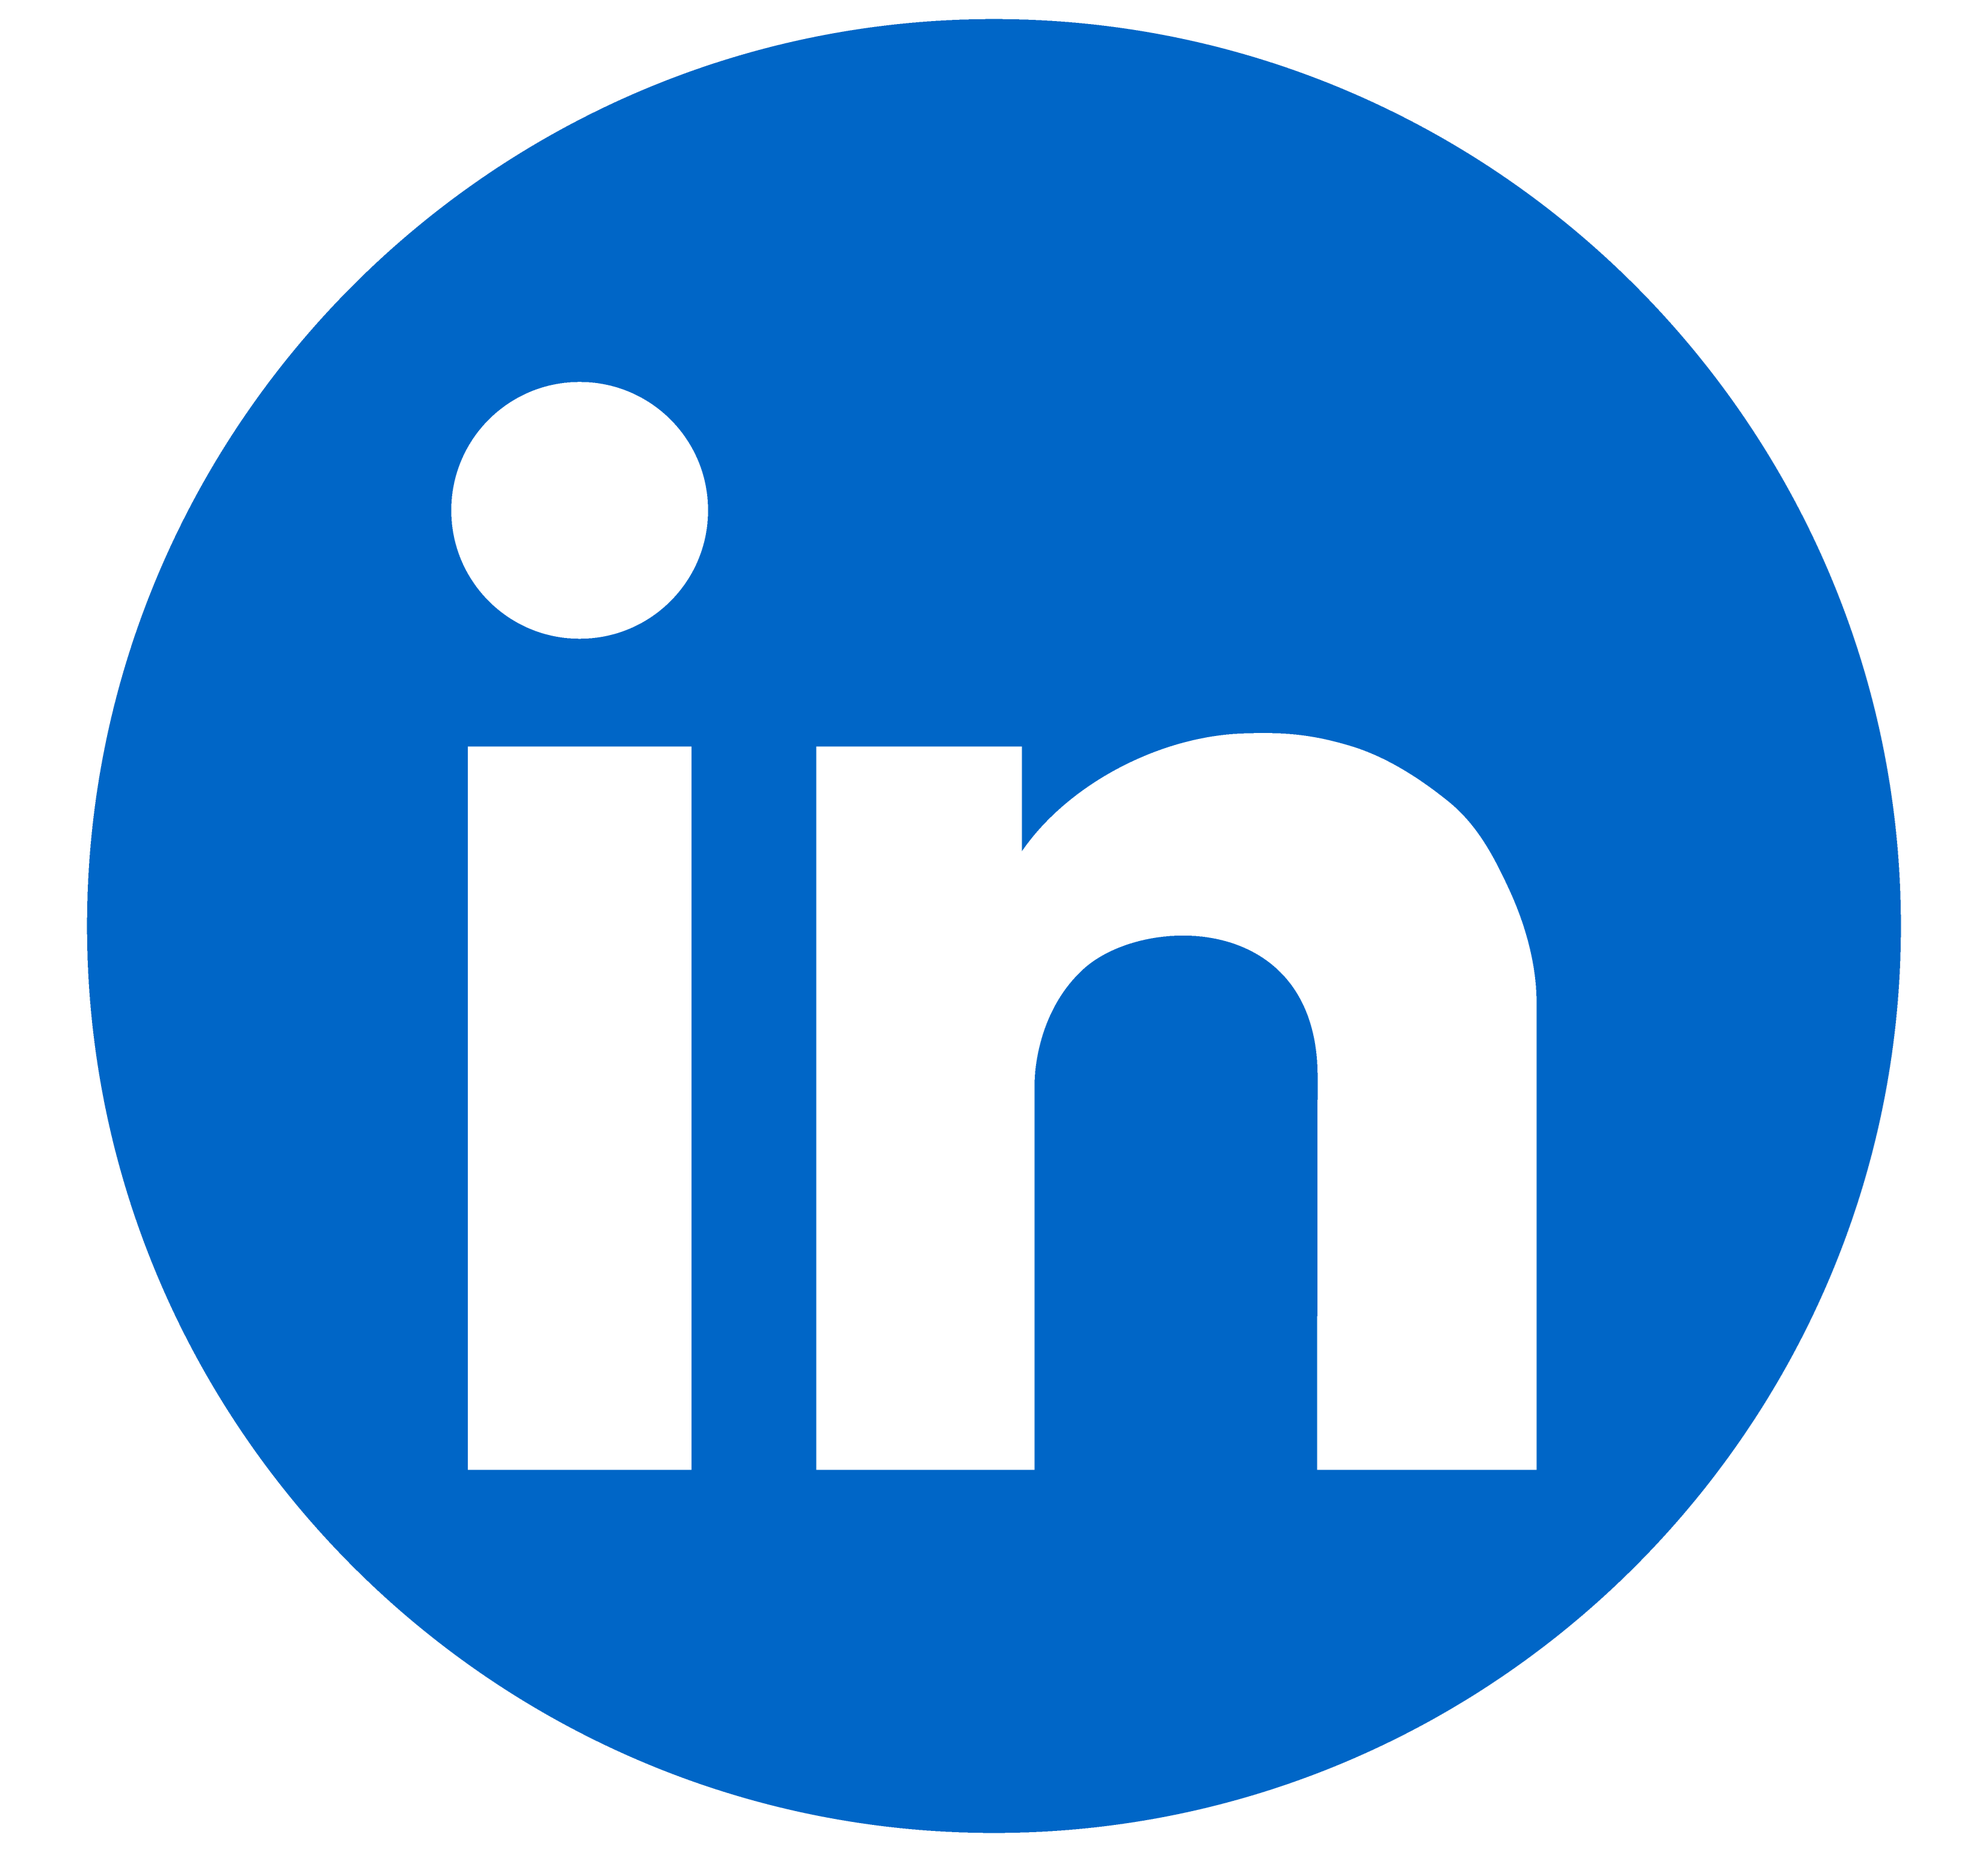
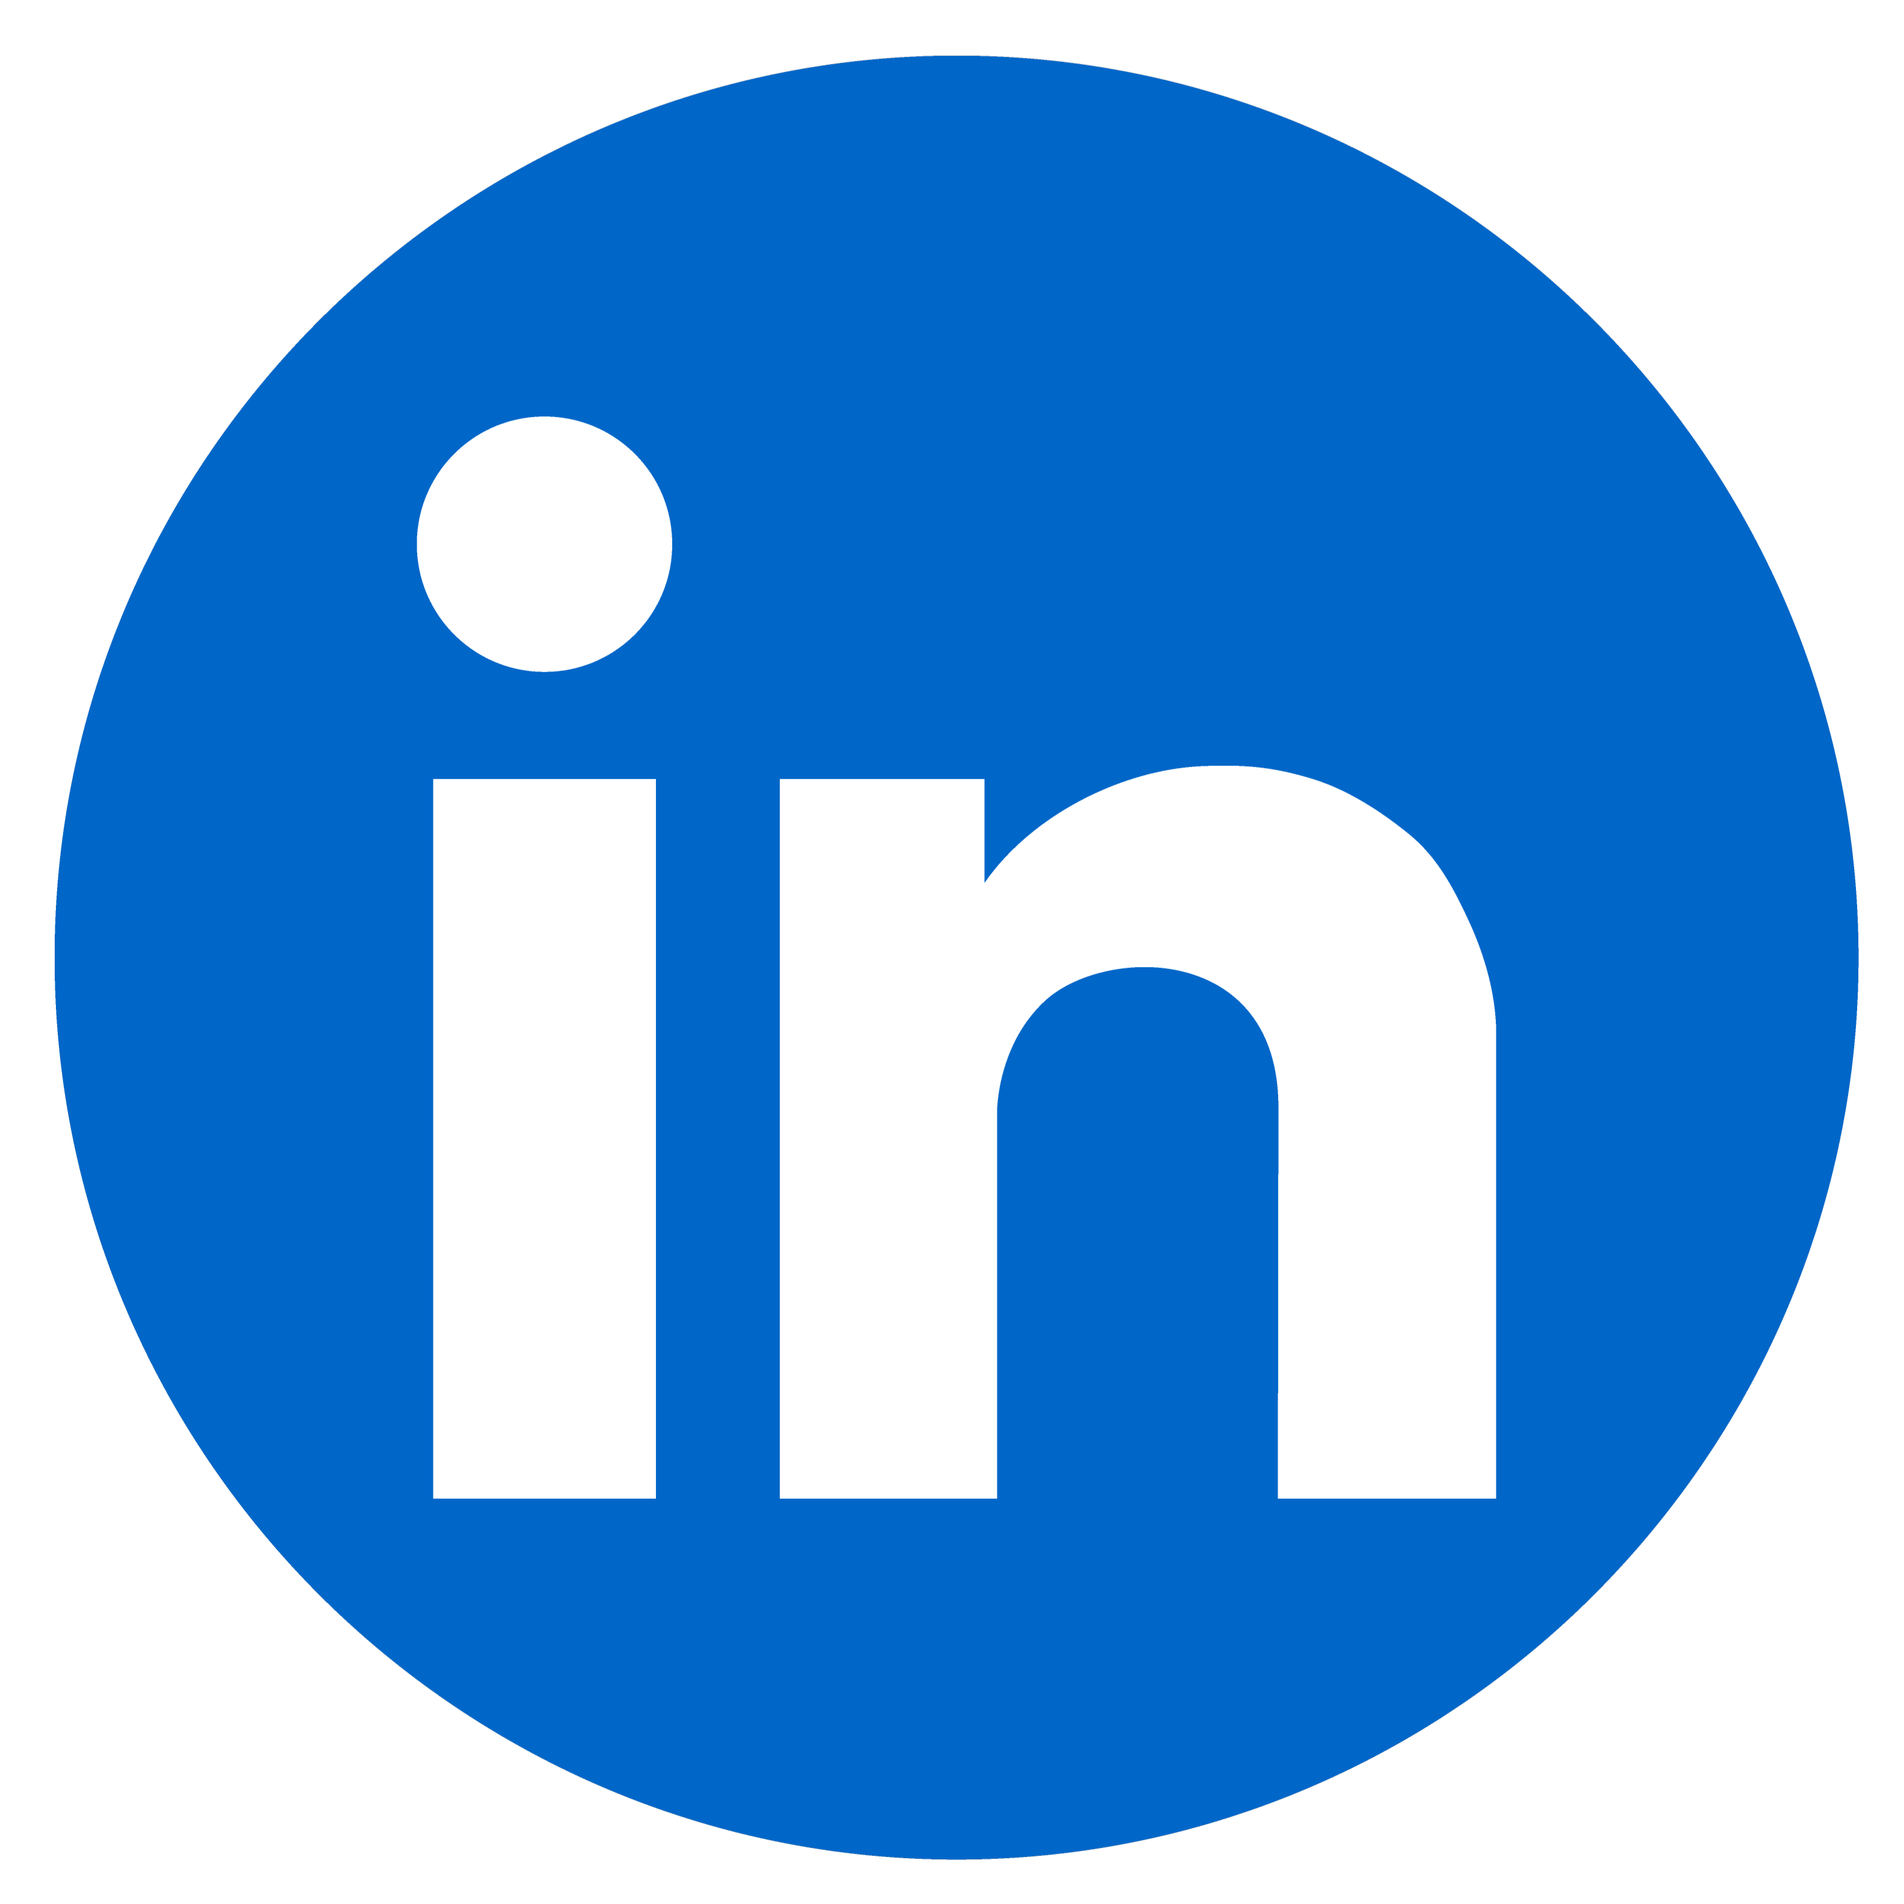
[UPD] Updated all components to use global styling and hover effects

diff --git a/src/data/links.ts b/src/data/links.ts
@@ -12,6 +12,7 @@ export interface Card {
 }
 
 export interface Section {
+    icon: string
     text: string
     link: string
 }
@@ -57,9 +58,9 @@ export const indexData: PageData = {
         }   
     ],
     sections: [
-        {text: "Shineburst", link: "/shineburst"},
-        {text: "Polaris Studios", link: "/polaris"},
-        {text: "Sky Holds", link: "/skyholds"}
+        {icon:"/images/logos/shineburst_logo.png", text: "Shineburst", link: "/shineburst"},
+        {icon:"/images/logos/polaris_studios_logo.png", text: "Polaris Studios", link: "/polaris"},
+        {icon:"/images/logos/skyholds_logo.png", text: "Sky Holds", link: "/skyholds"}
     ]
 }
 
@@ -74,27 +75,27 @@ export const shineburstData: PageData = {
     cards: [
         {    
             image: "/images/cards/shineburst_card.jpg",
-            text: "Listen to my Music!",
+            text: "Follow Me On Spotify!",
             alt: "Shineburst on Apple Music",
             link: "https://music.apple.com/us/artist/shineburst/1559045496"
         },
         {    
             image: "/images/cards/shineburst_card.jpg",
-            text: "Check out My Game Engine!",
+            text: "Check Out My Visualizers",
             alt: "Polaris Kit Game Engine",
             link: "https://ko-fi.com/s/523b453cae"
         },
         {    
             image: "/images/cards/shineburst_card.jpg",
-            text: "Watch me Climb to a V8!",
+            text: "Listen On Apple Music!",
             alt: "Sky Holds Instagram Page",
             link: "https://www.instagram.com/sky.holds/"
         }   
     ],
     sections: [
-        {text: "Personal", link: "/"},
-        {text: "Polaris Studios", link: "/polaris"},
-        {text: "Sky Holds", link: "/skyholds"}
+        {icon:"/images/logos/main_logo.png", text: "Personal", link: "/"},
+        {icon:"/images/logos/polaris_studios_logo.png", text: "Polaris Studios", link: "/polaris"},
+        {icon:"/images/logos/skyholds_logo.png", text: "Sky Holds", link: "/skyholds"}
     ]
 }
 
@@ -104,13 +105,13 @@ export const polarisData: PageData = {
     name: "Polaris Studios",
     tagline: "Imagination Going Beyond",
     social_links: [
-        {icon: 'github', link: 'https://github.com/marcogonzalez99', label: 'GitHub'},       
-        {icon: 'linkedin', link: 'https://www.linkedin.com/in/marco-a-gonzalez99/', label: 'LinkedIn'}
+        {icon: 'github', link: 'https://github.com/marcogonzalez99', label: 'GitHub'},  
+        {icon: 'instagram', link: 'https://www.instagram.com/sbstudios.project', label: 'Instagram'},     
     ],
     cards: [
         {    
             image: "/images/cards/shineburst_card.jpg",
-            text: "Listen to my Music!",
+            text: "Support me on Kofi!",
             alt: "Shineburst on Apple Music",
             link: "https://music.apple.com/us/artist/shineburst/1559045496"
         },
@@ -122,15 +123,15 @@ export const polarisData: PageData = {
         },
         {    
             image: "/images/cards/shineburst_card.jpg",
-            text: "Watch me Climb to a V8!",
+            text: "Follow Dev Builds!",
             alt: "Sky Holds Instagram Page",
             link: "https://www.instagram.com/sky.holds/"
         }   
     ],
     sections: [
-        {text: "Personal", link: "/"},
-        {text: "Shineburst", link: "/shineburst"},
-        {text: "Sky Holds", link: "/skyholds"}
+        {icon:"/images/logos/main_logo.png", text: "Personal", link: "/"},
+        {icon:"/images/logos/shineburst_logo.png", text: "Shineburst", link: "/shineburst"},
+        {icon:"/images/logos/skyholds_logo.png", text: "Sky Holds", link: "/skyholds"}
     ]
 }
 
@@ -145,26 +146,26 @@ export const skyholdsData: PageData = {
     cards: [
         {    
             image: "/images/cards/shineburst_card.jpg",
-            text: "Listen to my Music!",
+            text: "Watch My Shorts!",
             alt: "Shineburst on Apple Music",
             link: "https://music.apple.com/us/artist/shineburst/1559045496"
         },
         {    
             image: "/images/cards/shineburst_card.jpg",
-            text: "Check out My Game Engine!",
+            text: "(Insert Sponsorship Here)",
             alt: "Polaris Kit Game Engine",
             link: "https://ko-fi.com/s/523b453cae"
         },
         {    
             image: "/images/cards/shineburst_card.jpg",
-            text: "Watch me Climb to a V8!",
+            text: "Watch My First V7!",
             alt: "Sky Holds Instagram Page",
             link: "https://www.instagram.com/sky.holds/"
         }   
     ],
     sections: [
-        {text: "Personal", link: "/"},
-        {text: "Shineburst", link: "/shineburst"},
-        {text: "Polaris Studios", link: "/polaris"}
+        {icon:"/images/logos/main_logo.png", text: "Personal", link: "/"},
+        {icon:"/images/logos/shineburst_logo.png", text: "Shineburst", link: "/shineburst"},
+        {icon:"/images/logos/polaris_studios_logo.png", text: "Polaris Studios", link: "/polaris"}
     ]
 }

diff --git a/src/styles/global.css b/src/styles/global.css
@@ -5,13 +5,25 @@
 /* Color Schemes */
 :root {
   color-scheme: light dark;
-  --color-bg: #F7F7F5;
-  --color-profile-border: #FFFFFF;
+  --color-bg: #F2F0EF;
+  --color-profile-border: #F2F0EF;
+
+  --color-text-main: #212326;
+  --color-text-secondary: #212326;
+  --color-ring-hover: #323841;
+
+  --color-bg-dark: #F2F0EF;
 }
 
 :root.dark {
   --color-bg: #212326;
-  --color-profile-border: #2B2B2B;
+  --color-profile-border: #212326;
+  
+  --color-text-main: #F2F0EF;
+  --color-text-secondary: #F2F0EF;
+  --color-ring-hover: #323841;
+  
+  --color-bg-dark: #F2F0EF;
 }
 
 html {

diff --git a/CHANGELOG.md b/CHANGELOG.md
@@ -4,7 +4,22 @@ All notable changes to Pathways will be documented here.
 
 ## [Unreleased]
 
-## [0.2.1] - 2026-03-07
+## [0.9.0] - 2026-03-08
+
+### Removed
+- Old Linkedin Logo
+
+### Updated
+- `LinkCard.astro` - Added hover effects, changed text color to match dark/light mode
+- `ProfileCard.astro` - Added `DarkMode` component. Updated Profile Image size. Added variables for styling
+- `Sections.astro` - Updated component to use hover effects, scaling and variable styling from `global.css`. Added a flex grid for both mobile and desktop usage
+- `SocialButtons.astro` - Updated hover effects
+
+### Added
+- `DarkMode` - Added new component to store Dark Mode UI
+- New Linkedin Logo
+
+## [0.8.0] - 2026-03-07
 
 ### Updated
 - `ProfileCard.astro` - Profile image border now uses `--color-profile-border`
@@ -13,14 +28,14 @@ All notable changes to Pathways will be documented here.
 - `src/data/links.ts` - Added `label` field to `SocialLink` interface; populated labels across all four page data objects
 - `src/styles/global.css` - Added `--color-profile-border` CSS variable for light (`#FFFFFF`) and dark (`#2B2B2B`) modes
 
-## [0.2] - 2026-03-06
+## [0.7.0] - 2026-03-06
 
 ### Added
 - Dark Mode temporary toggle
 
 
 ---
-## [0.1.2] - 2026-02-27
+## [0.6.0] - 2026-02-27
 
 ### Added
 - `Section` interface in `src/data/links.ts` | typed interface with `text` and `link` fields
@@ -32,7 +47,7 @@ All notable changes to Pathways will be documented here.
 
 ---
 
-## [0.1.1] - 2026-02-26
+## [0.5.0] - 2026-02-26
 
 ### Updated
 - `README.md` - Updated Features list to accurately reflect the project's specific implementation.
@@ -42,7 +57,7 @@ All notable changes to Pathways will be documented here.
 
 ---
 
-## [0.1.0] - 2026-02-24
+## [0.4.0] - 2026-02-24
 
 ### Added
 - `SocialButtons.astro` - Implemented component: renders social icon images from `/images/social/` using `.map()` over a `SocialLink[]` prop, with circular bordered styling
@@ -54,7 +69,7 @@ All notable changes to Pathways will be documented here.
 
 ---
 
-## [0.0.3] - 2026-02-23
+## [0.3.0] - 2026-02-23
 
 ### Updated
 - `ProfileCard.astro` - Implemented full component: header image, circular profile image overlapping header, name, and tagline
@@ -62,14 +77,14 @@ All notable changes to Pathways will be documented here.
 
 ---
 
-## [0.0.2] - 2026-02-22
+## [0.2.0] - 2026-02-22
 
 ### Added
 - `BaseLayout.astro` - Shared layout component accepting a `PageData` prop, renders profile, social buttons, cards, and section link
 - `src/data/links.ts` - Typed interfaces (`PageData`, `Card`, `SocialLink`) and data stubs for all four pages (`indexData`, `shineburstData`, `polarisData`, `skyholdsData`)
 
 
-## [0.0.1] - 2026-02-21
+## [0.1.0] - 2026-02-21
 
 ### Added
 - Initial Astro project setup with Tailwind CSS
